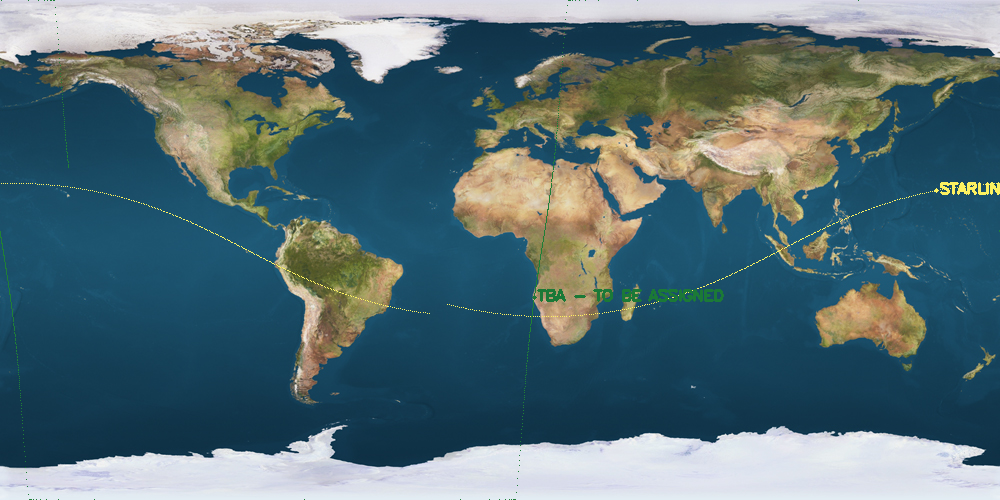
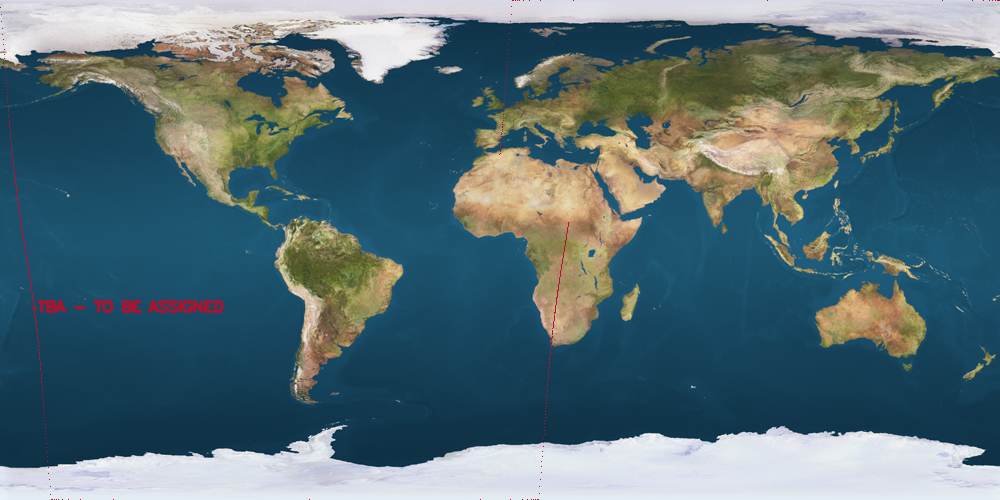
minor fixes

Changed region(s): [[0.527, 0.57, 0.744, 0.63], [0.031, 0.6, 0.248, 0.63], [0.93, 0.36, 1.0, 0.39]]

diff --git a/main.py b/main.py
@@ -39,14 +39,12 @@ def plots():
 @app.route('/satellite/<int:id>', methods=["GET", "POST"])
 def satellite(id):
     try:
-        cv2.imwrite("public/satellite/img.png", get_satellite_orb_img([satellites[id], satellites[0]]))
+        cv2.imwrite("public/satellite/img.png", get_satellite_orb_img(satellites[id]))
         return render_template('satellite.html', image = 'img.png', sat_name = satellites[id].satellite_name, id_next = "/satellite/"+str(min(id+1, 21986)), id_prev = "/satellite/"+str(max(id-1, 0)))
     except:
         return render_template_string(f"{satellites[id].satellite_name} was died")
 
 if __name__ == '__main__':
-    app.config['TEMPLATES_AUTO_RELOAD'] = True
-    app.config['SEND_FILE_MAX_AGE_DEFAULT'] = 1
     app.run(debug=True)
 
 
